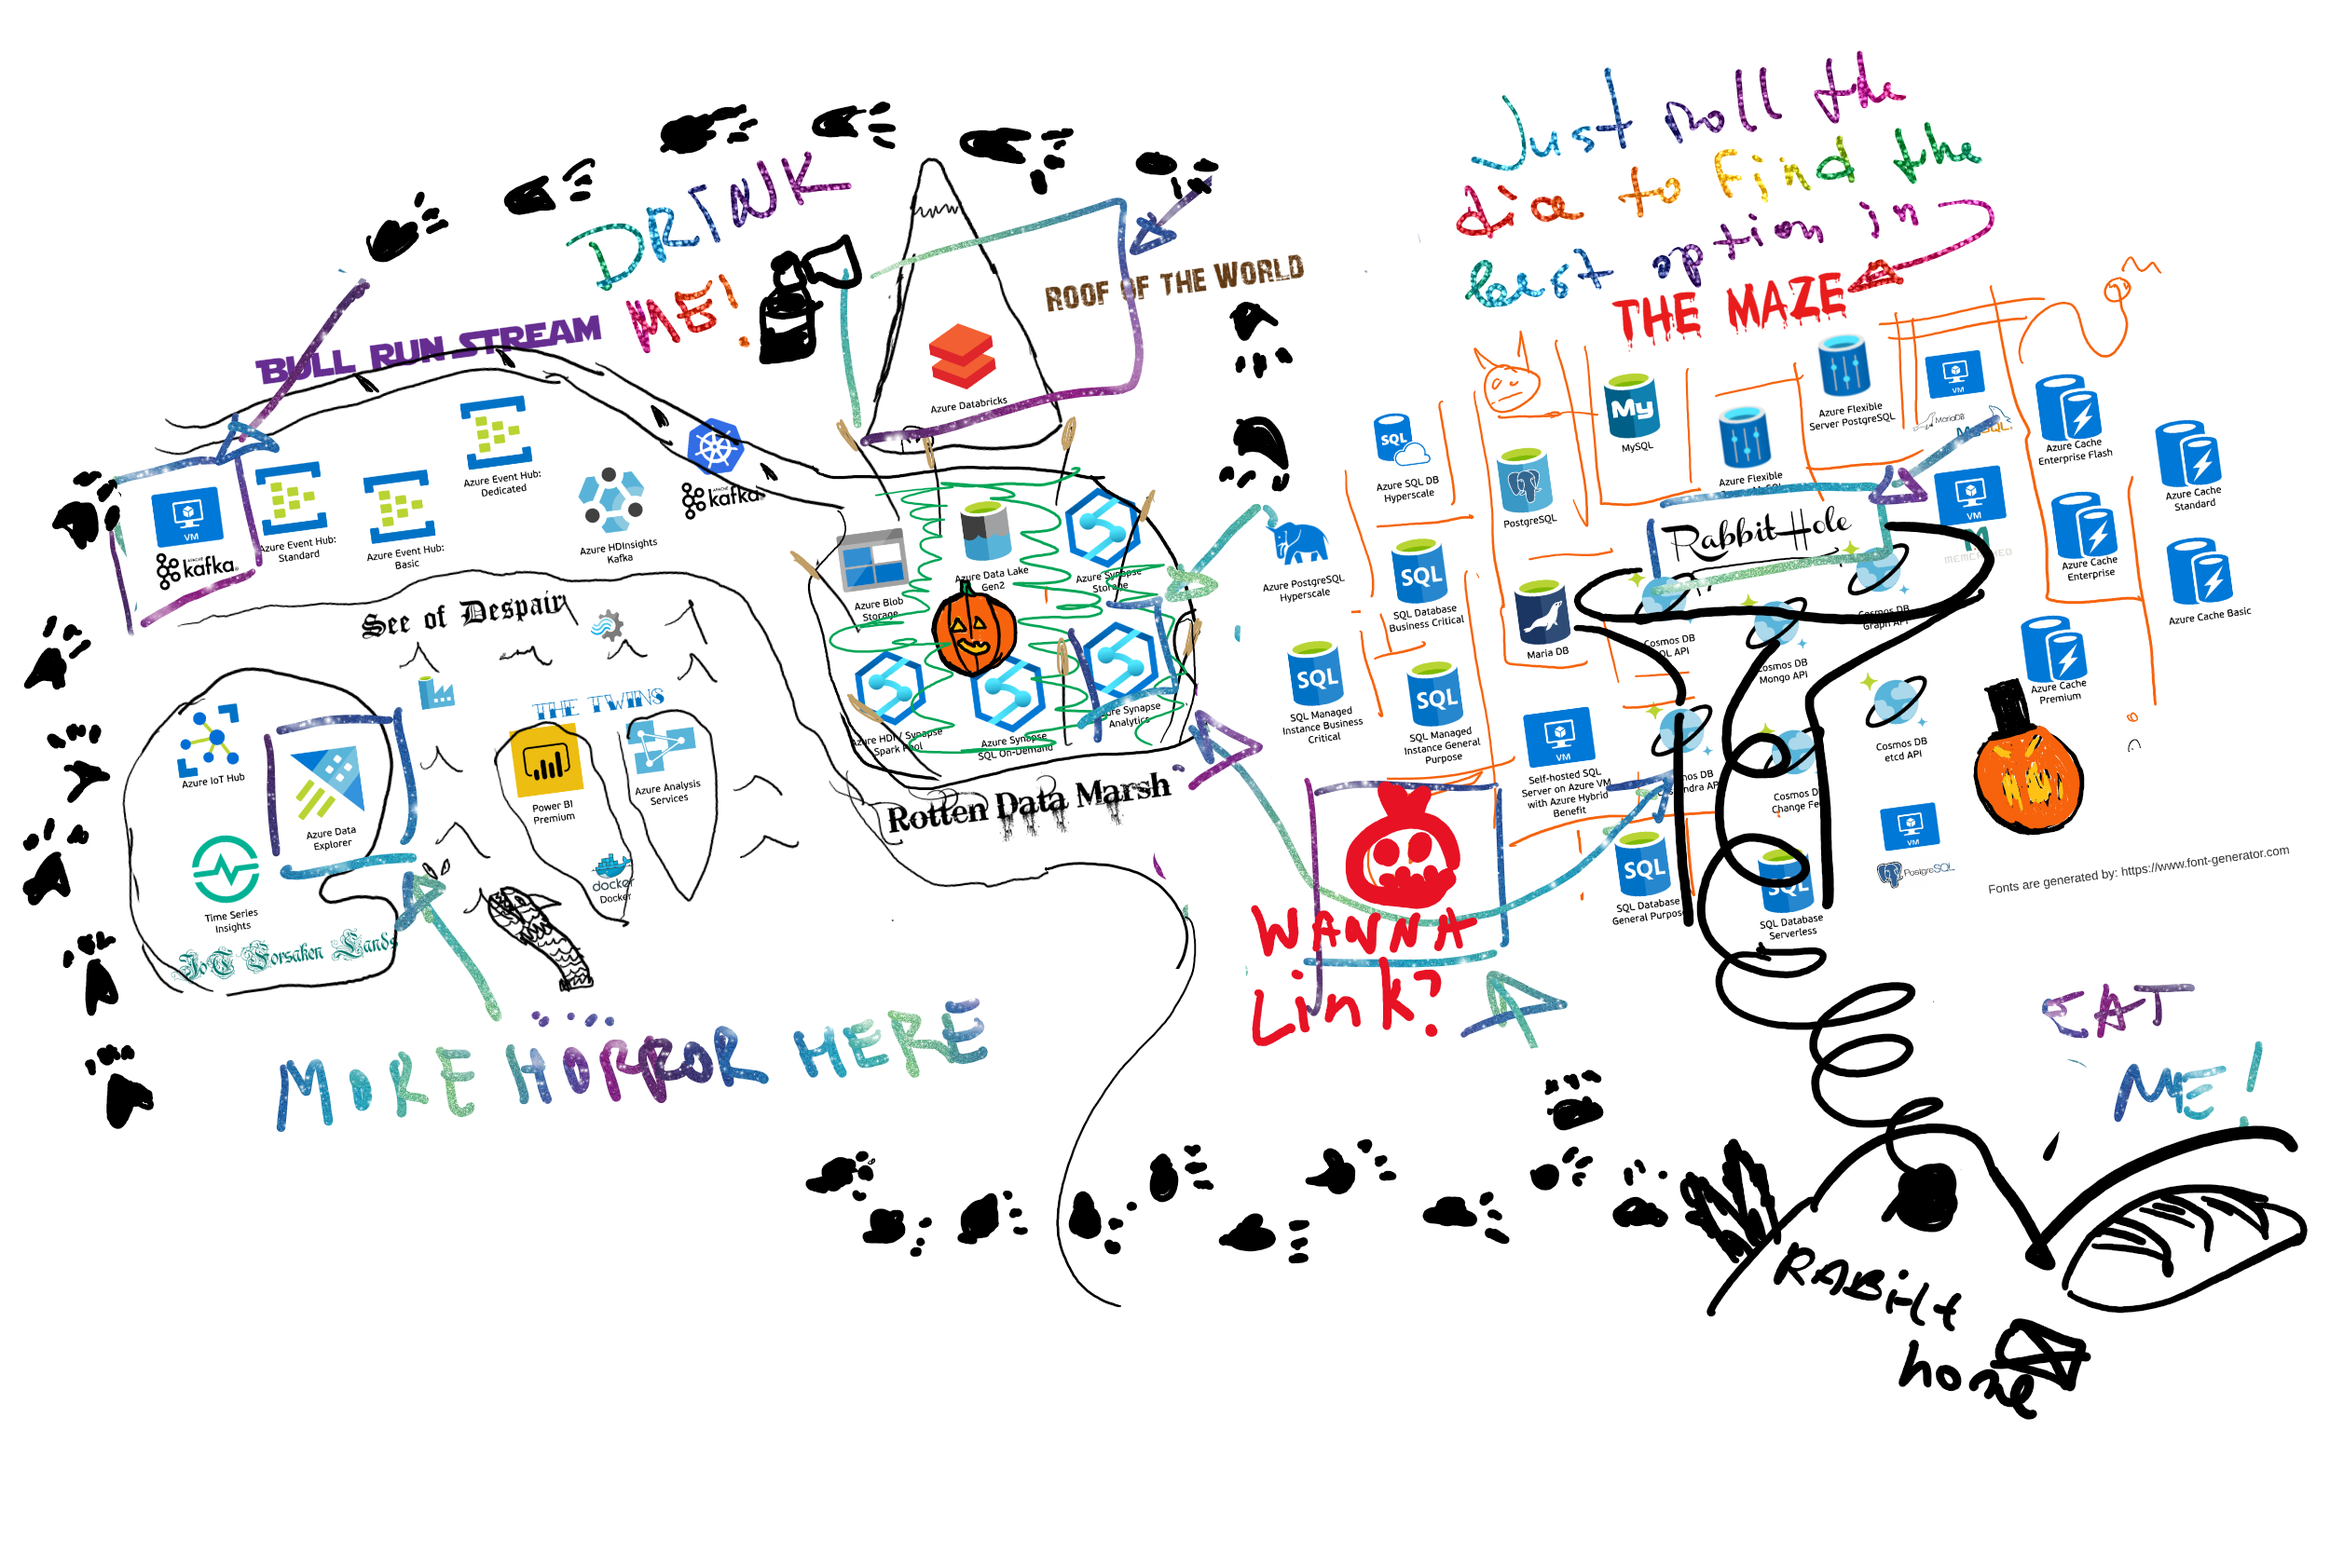
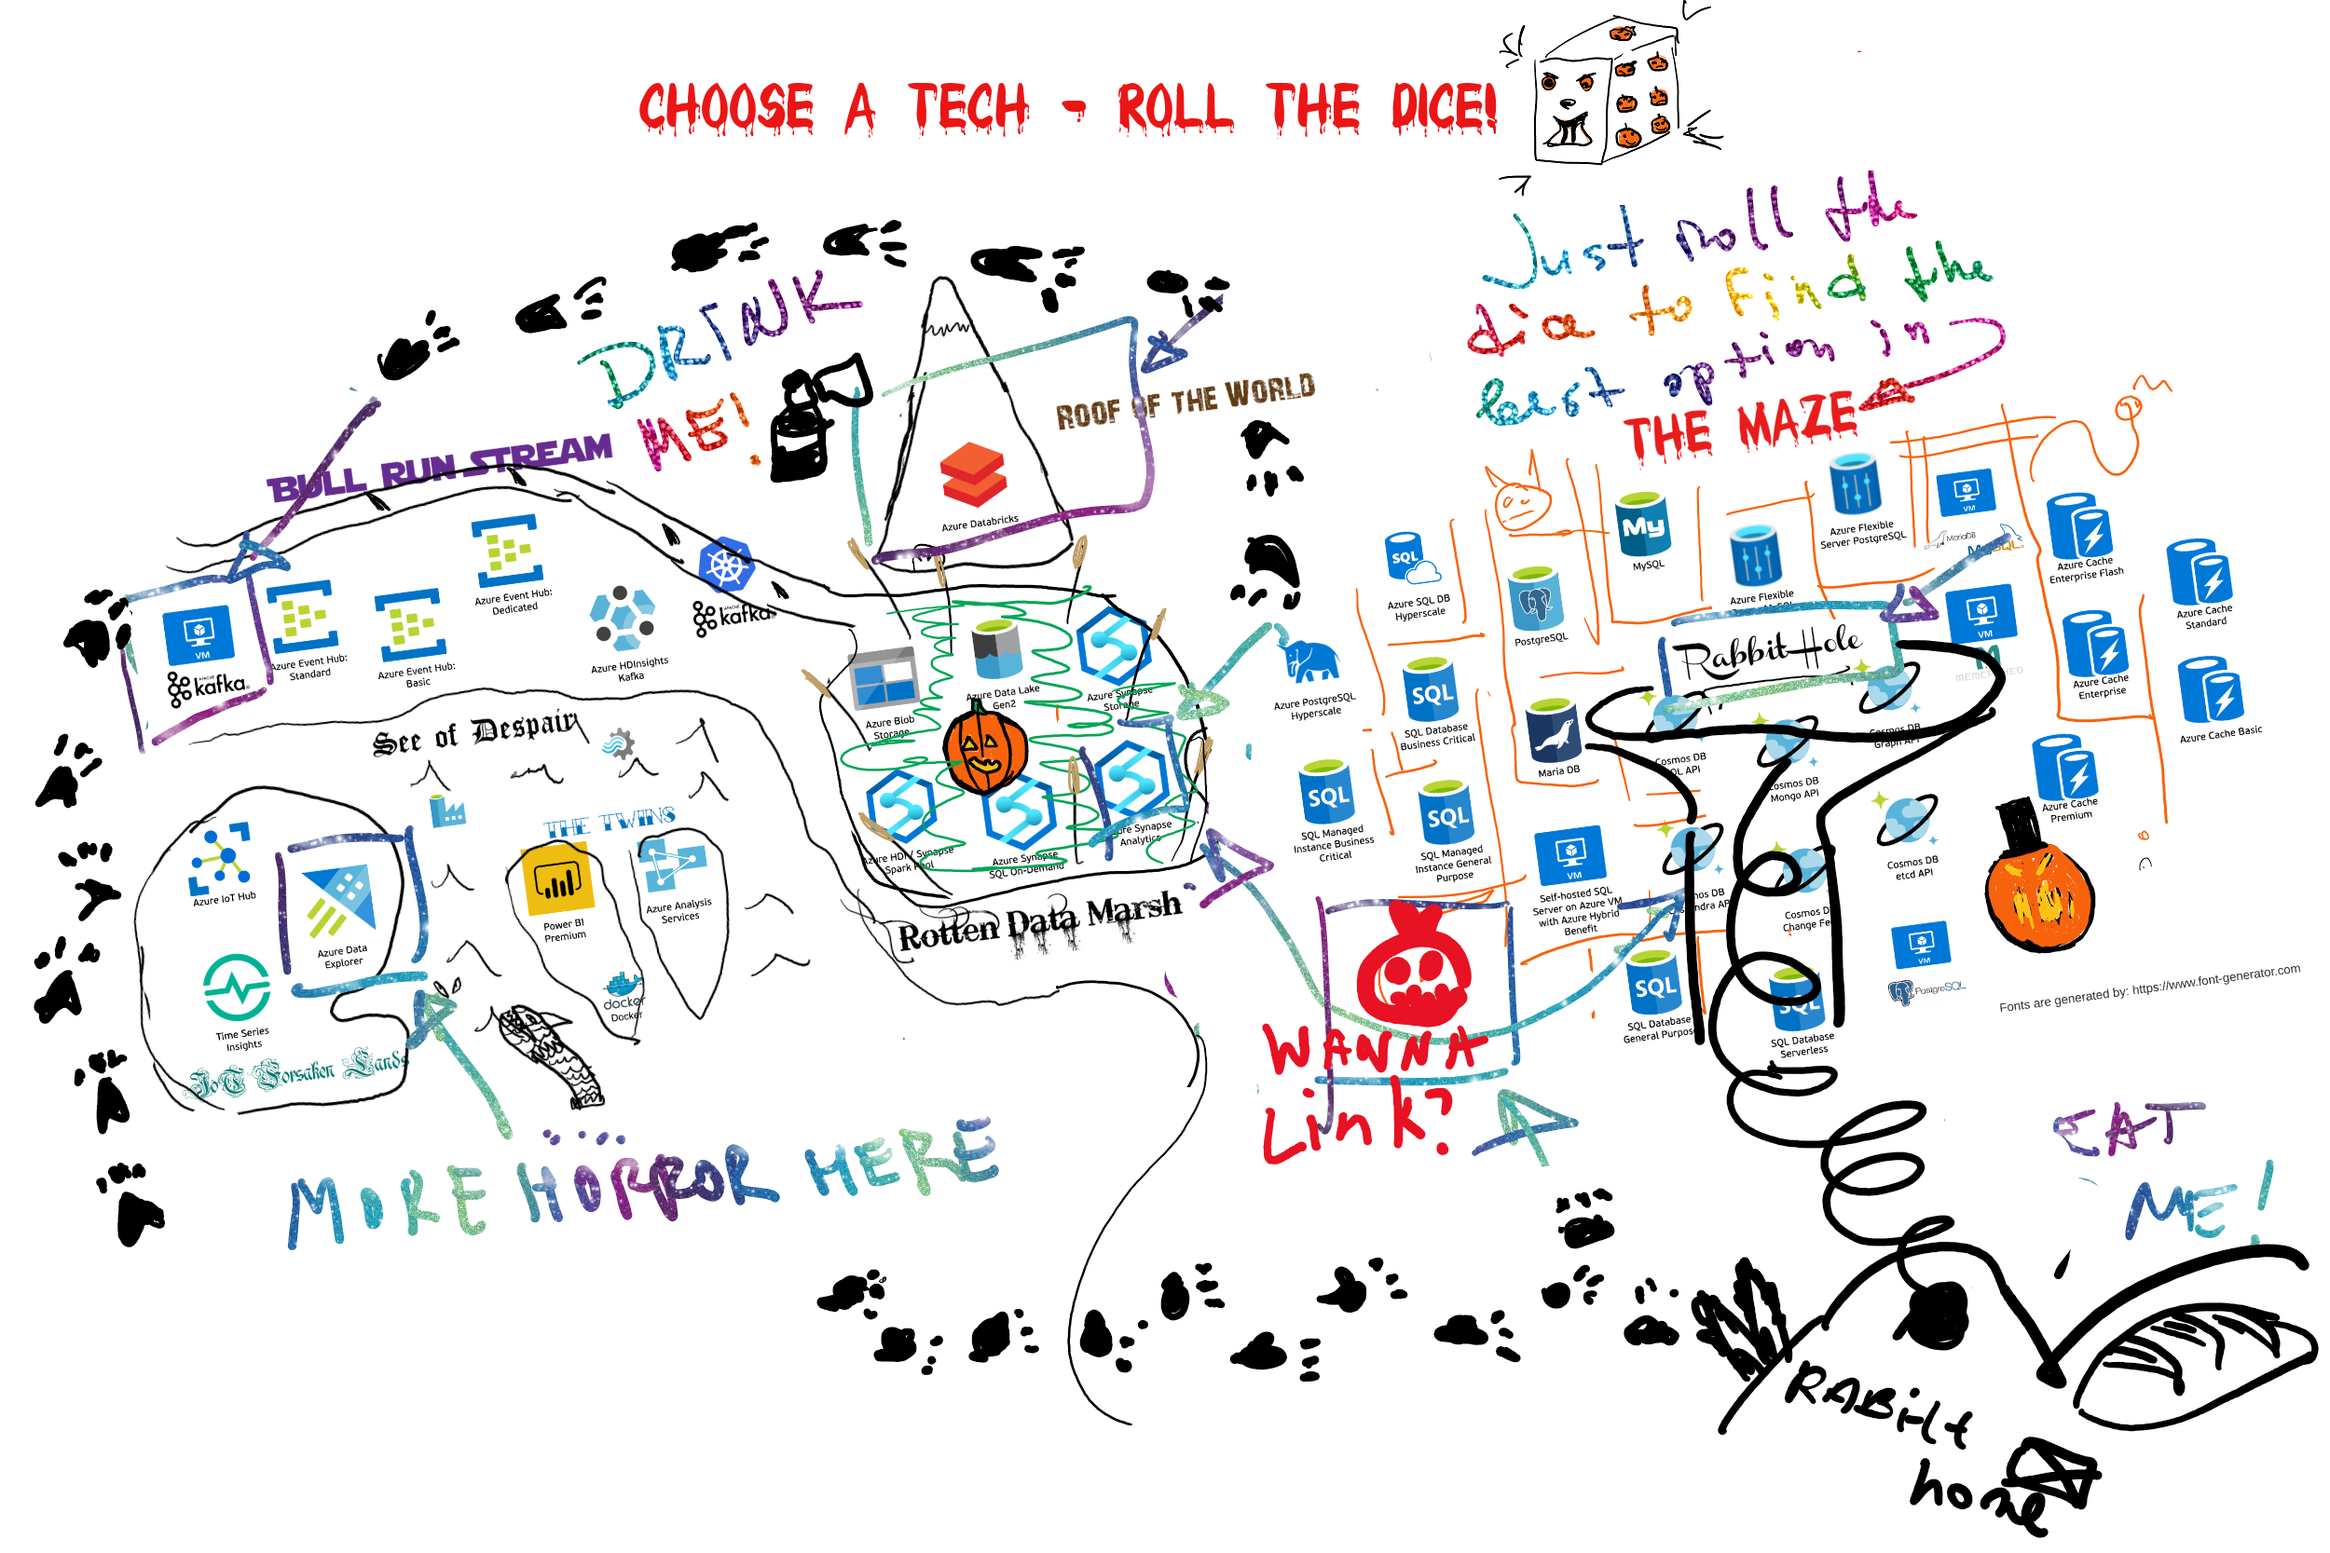
fix

diff --git a/index.html b/index.html
@@ -5,17 +5,14 @@
 </head>  
 <body>
   <div>
-    <img src="choose.png" />
-  </div>
-  <div>
     <img src="dt.png" usemap="#map" style="max-width: 80%" />
 	<map name="map">
-		<area shape="rect" coords="1752, 518, 2049, 634" alt="RabbitHole" href="halloween/story2.htm" />
-		<area shape="rect" coords="1397, 834, 1644, 1033" alt="WannaLink"  href="halloween/story3.htm" />
-		<area shape="rect" coords="1137, 634, 1283, 788" alt="RottenMarch"  href="halloween/story1.htm" />
-		<area shape="rect" coords="901, 263, 1145, 459" alt="RoofoftheWorld"  href="halloween/story6.htm" />
-		<area shape="rect" coords="272, 755, 448, 939" alt="IoTFarsacenLands"  href="halloween/story4.htm" />
-		<area shape="rect" coords="101, 485, 288, 644" alt="BullRunStream"  href="halloween/story5.htm"  />
+    <area shape="rect" coords="116, 629, 303, 788" href="halloween/story5.htm" alt="BullRunStream" />
+    <area shape="rect" coords="288, 887, 464, 1071" href="halloween/story4.htm" alt="IoTFarsacenLands" />
+    <area shape="rect" coords="915, 383, 1159, 579" href="halloween/story6.htm" alt="RoofoftheWorld" />
+    <area shape="rect" coords="1118, 624, 1264, 778" href="halloween/story1.htm" alt="RottenMarch" />
+    <area shape="rect" coords="1400, 957, 1647, 1156" href="halloween/story3.htm" alt="WannaLink" />
+    <area shape="rect" coords="1748, 633, 2045, 749" href="halloween/story2.htm" alt="RabbitHole" />
 	</map>
   </div>
 </body>
